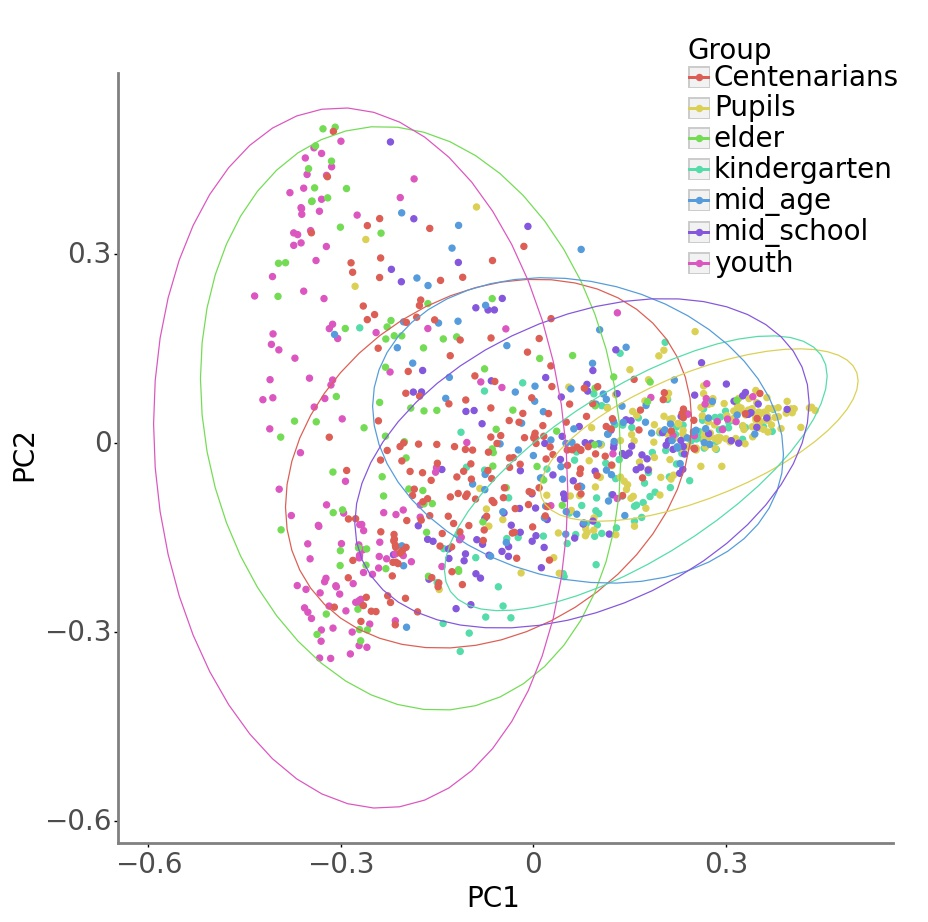
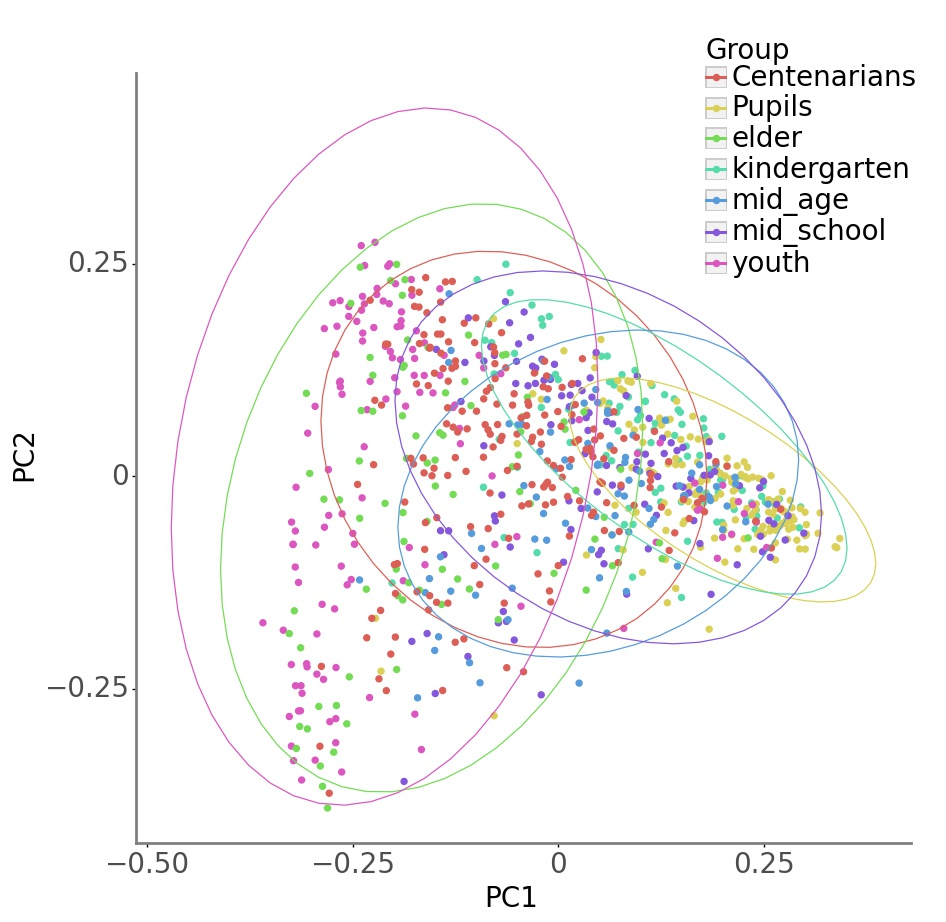
update plot.py

diff --git a/mst/result/rlt_abundance/plot.py b/mst/result/rlt_abundance/plot.py
@@ -4,6 +4,7 @@ import re
 from plotnine import*
 from skbio.diversity import beta_diversity
 from skbio.stats.ordination import *
+from scipy.spatial.distance import pdist, squareform
 
 
 
@@ -21,7 +22,8 @@ if __name__ == '__main__':
      # PCOA plot
      metaNormal = pd.read_csv('../../../data/normal-meta.csv', index_col=0)['Group']
      abundanceNormal = pd.read_csv('../../../data/relative_abundance.csv', index_col=0)[metaNormal.index.tolist()].T
-     bcDm = beta_diversity('braycurtis', abundanceNormal, abundanceNormal.index)
+     # bcDm = beta_diversity('braycurtis', abundanceNormal, abundanceNormal.index)
+     bcDm = squareform(pdist(abundanceNormal, metric='jensenshannon'))
      bcPcoa = pd.DataFrame(pcoa(bcDm, number_of_dimensions=2).samples.values.tolist(), 
                               index=abundanceNormal.index, columns=['PC1', 'PC2'])
      
